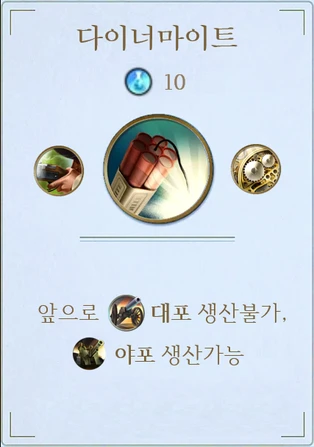
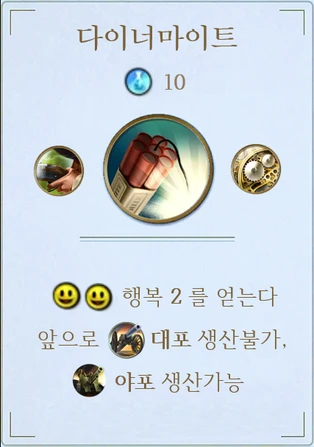
다이너마이트 행복+2, 해안 도시는 첫 5타일만, 군사 카드 종류당 4장(넘치면 골라 버림·경고), 투석병사·다이너마이트 카드 교체
Claude-Session: https://claude.ai/code/session_01RAyYJg3yqsP1EQBtC7udPM

Changed region(s): [[0.1146, 0.6107, 0.9172, 0.9016]]

diff --git a/src/engine/military.ts b/src/engine/military.ts
@@ -6,8 +6,11 @@ import { say } from './core'
 import { nextRandom } from './rng'
 import { dirsKey } from './cardstats'
 
-/** 한 종류의 군사 카드는 최대 6장까지 보유할 수 있다. 공용 덱의 카드는 사실상 무제한이라 재고는 세지 않는다. */
-export const MAX_HOLD = 6
+/**
+ * 한 종류의 군사 카드는 4장까지 보유한다. 더 만들 수는 있지만, 넘친 만큼은 직접 골라 버려야 한다 (discardCard).
+ * 공용 덱의 카드는 사실상 무제한이라 재고는 세지 않는다.
+ */
+export const MAX_HOLD = 4
 
 /**
  * 고유 유닛은 3장만 만들어져 있다: 방향 카드는 왼쪽·가운데·오른쪽 한 장씩, 방향이 없는 카드는 같은 카드 3장.
@@ -47,7 +50,8 @@ export function uniqueOf(p: Player, name: string): UniqueUnitDef | undefined {
   return civById(p.civId).uniques.find((u) => u.name === name)
 }
 
-const first5 = (city: City) => city.tiles.filter((t) => t.role === 'city' || t.role === 'side')
+/** 도시를 세울 때의 첫 5타일 (나중에 붙은 타일은 제외) */
+const first5 = (city: City) => city.tiles.filter((t) => (t.role === 'city' || t.role === 'side') && !t.late)
 export const isCoastalCity = (city: City): boolean => first5(city).some((t) => t.card.terrains.includes('해안'))
 
 /** 같은 계열의 더 높은 단계 기술을 얻으면 낮은 단계 카드는 더 만들 수 없다 ("앞으로 ○○ 생산불가") */
@@ -68,7 +72,6 @@ export function producible(s: GameState, p: Player, defId: string, unique?: stri
   if (!p.techs.includes(tech)) return null
   if (isObsolete(p, def)) return null
   if (city && def.requires && !city.tiles.some((t) => t.card.resource === def.requires)) return null
-  if (p.military.filter((c) => c.defId === id).length >= MAX_HOLD) return null
   if (uq && (s.uniqueSupply[uq.name]?.length ?? 0) === 0) return null // 고유 유닛 3장이 모두 존재함
   return { def, uq }
 }
@@ -89,8 +92,27 @@ function newCard(s: GameState, defId: string, unique?: string): CardInst {
 }
 
 /** 기술 효과 등으로 카드를 바로 받는다 (핵융합의 원자폭탄) */
+/** 보유 한도(MAX_HOLD)를 넘으면 버릴 카드를 골라야 한다: 넘친 종류를 기록한다 */
+function noteOverflow(p: Player, defId: string): void {
+  if (p.military.filter((c) => c.defId === defId).length > MAX_HOLD) (p.pendingCardDiscard ??= []).push(defId)
+}
+
+/** 넘친 군사 카드 1장을 골라 버린다 (고유 유닛이면 재고로 돌아간다) */
+export function discardCard(s: GameState, p: Player, uid: number): void {
+  const inst = p.military.find((c) => c.uid === uid)
+  if (!inst) throw new RuleError('내 카드가 아닙니다')
+  const at = p.pendingCardDiscard?.indexOf(inst.defId) ?? -1
+  if (at < 0) throw new RuleError('버려야 하는 종류의 카드를 고르세요')
+  p.military = p.military.filter((c) => c.uid !== uid)
+  releaseUnique(s, inst)
+  p.pendingCardDiscard!.splice(at, 1)
+  if (!p.pendingCardDiscard!.length) p.pendingCardDiscard = undefined
+  say(s, `${civById(p.civId).name} 넘친 ${cardById(inst.defId).name} 1장을 버림`)
+}
+
 export function grantCard(s: GameState, p: Player, defId: string): void {
   p.military.push(newCard(s, defId))
+  noteOverflow(p, defId)
   say(s, `${civById(p.civId).name} ${cardById(defId).name} 획득`)
 }
 
@@ -104,7 +126,7 @@ export function produceCard(
   const turn = p.turn!
   if (turn.produced.includes(a.cityId)) throw new RuleError('도시마다 한 차례에 생산은 1개만 할 수 있습니다')
   const ok = producible(s, p, a.defId, a.unique, city)
-  if (!ok) throw new RuleError('지금 만들 수 없는 카드입니다 (기술·자원·더 높은 단계 보유·보유 한도 확인)')
+  if (!ok) throw new RuleError('지금 만들 수 없는 카드입니다 (기술·자원·더 높은 단계 보유 확인)')
   const { def, uq } = ok
   if ((uq?.coastalOnly || def.special === 'coastalOnly') && !isCoastalCity(city)) {
     throw new RuleError('첫 5타일에 해안이 있는 도시에서만 만들 수 있습니다')
@@ -113,6 +135,7 @@ export function produceCard(
   const available = turn.yields.cities.find((c) => c.cityId === a.cityId)!.hammer
   if (available < cost) throw new RuleError('도시의 망치가 모자랍니다')
   p.military.push(newCard(s, def.id, a.unique))
+  noteOverflow(p, def.id)
   turn.produced.push(a.cityId)
   say(s, `${civById(p.civId).name} ${a.unique ?? def.name} 생산 (망치 ${cost})`)
 }
@@ -138,13 +161,13 @@ export function upgradeCard(s: GameState, p: Player, a: { uid: number; unique?: 
   const uq = a.unique ? uniqueOf(p, a.unique) : undefined
   if (a.unique && (!uq || uq.base !== upper.id)) throw new RuleError('그 고유 유닛으로 승급할 수 없습니다')
   if (!p.techs.includes(uq?.tech ?? upper.tech)) throw new RuleError('필요한 기술이 없습니다')
-  if (p.military.filter((c) => c.defId === upper.id).length >= MAX_HOLD) throw new RuleError('한 종류는 6장까지만 가질 수 있습니다')
   if (uq && (s.uniqueSupply[uq.name]?.length ?? 0) === 0) throw new RuleError('그 고유 유닛 3장이 모두 존재합니다')
   const cost = cardCost(p, upper, uq)
   if (turn.yields.gold < cost) throw new RuleError('금이 모자랍니다')
   p.military = p.military.filter((c) => c.uid !== a.uid)
   releaseUnique(s, inst) // 승급으로 바뀐 하위 고유 유닛은 재고로 돌아간다
   p.military.push(newCard(s, upper.id, a.unique))
+  noteOverflow(p, upper.id)
   turn.upgraded = true
   turn.yields.gold -= cost
   say(s, `${civById(p.civId).name} ${lower.name} → ${upper.name} 승급 (금 ${cost})`)
@@ -168,6 +191,7 @@ export function claimFreeCard(s: GameState, p: Player, a: { defId: string; uniqu
   const ok = producible(s, p, a.defId, a.unique)
   if (!ok) throw new RuleError('지금 받을 수 없는 카드입니다')
   p.military.push(newCard(s, ok.def.id, a.unique))
+  noteOverflow(p, ok.def.id)
   p.pendingFreeCards--
   say(s, `${civById(p.civId).name} 무료 군사 카드: ${a.unique ?? ok.def.name}`)
 }

diff --git a/src/engine/ai.ts b/src/engine/ai.ts
@@ -6,7 +6,7 @@ import type { TechDef } from './data'
 import { apply, researchableTechs } from './game'
 import { canHammerScience, ctxOf, culture, happiness, rationalismScience, tileYield, totalWorkers, tourism } from './yields'
 import { investableWonders, minHammers } from './wonders'
-import { cardCost, producible, uniqueOf, upgradeTargets } from './military'
+import { MAX_HOLD, cardCost, producible, uniqueOf, upgradeTargets } from './military'
 import { declarationTargets, occupiedTiles } from './war'
 import { currentPlayer, defaultTileCity } from './core'
 
@@ -422,7 +422,7 @@ function produceCandidates(s: GameState, p: Player): Action[] {
     const wonderActions: Action[] = wonders.map((w) => ({ type: 'invest', cityId: city.id, wonderId: w.id, hammers: h }))
     const cardActions: Action[] = []
     for (const o of cardOptions(p)) {
-      if (o.def.notBattle || !producible(s, p, o.def.id, o.unique, city) || cardCost(p, o.def, o.unique ? uniqueOf(p, o.unique) : undefined) > h) continue
+      if (o.def.notBattle || p.military.filter((c) => c.defId === o.def.id).length >= MAX_HOLD || !producible(s, p, o.def.id, o.unique, city) || cardCost(p, o.def, o.unique ? uniqueOf(p, o.unique) : undefined) > h) continue
       cardActions.push({ type: 'produce', cityId: city.id, defId: o.def.id, unique: o.unique })
     }
     // 군대가 3장 미만이거나 이웃의 군사에 비해 수비가 모자라면 군사 카드를 먼저, 그 뒤에는 불가사의에 망치를 모두 건다
@@ -434,7 +434,7 @@ function produceCandidates(s: GameState, p: Player): Action[] {
     for (const c of p.military) {
       for (const u of civById(p.civId).uniques) out.push({ type: 'upgrade', uid: c.uid, unique: u.name })
     }
-    for (const c of p.military) for (const t of upgradeTargets(p, c)) out.push({ type: 'upgrade', uid: c.uid, toDefId: t.id })
+    for (const c of p.military) for (const t of upgradeTargets(p, c).filter((x) => p.military.filter((m) => m.defId === x.id).length < MAX_HOLD)) out.push({ type: 'upgrade', uid: c.uid, toDefId: t.id })
   }
   // 4) 장군이 없고 군대가 있으면 점령 중인 장군 1개를 불러들여 다시 전쟁에 쓴다.
   //    다만 상대에게 중요한 타일(좋은 산출·자원·자연경관)을 점령 중이면 그대로 들고 있는다. 상대의 성장을 누르는 편이 낫다.
@@ -530,6 +530,12 @@ function battleCandidates(s: GameState): Action[] {
 export function aiCandidates(s: GameState): Action[] {
   if (s.phase === 'battle' && s.battle) return battleCandidates(s)
   const p = currentPlayer(s)
+  // 보유 한도를 넘은 카드는 같은 종류 중 가장 약한 카드(고유 유닛 아님·체력이 낮은 것)를 버린다
+  if (p.pendingCardDiscard?.length) {
+    const kind = p.pendingCardDiscard[0]
+    const cands = p.military.filter((c) => c.defId === kind).sort((x, y) => Number(!!x.unique) - Number(!!y.unique) || (cardStats(x).hp ?? 0) - (cardStats(y).hp ?? 0))
+    return cands.map((c) => ({ type: 'discardCard' as const, uid: c.uid }))
+  }
   // 문화로 얻은 타일은 먼저 붙인다 (예전 자동 배치와 같은 도시)
   if (p.pendingTiles?.length && s.phase !== 'setup' && s.phase !== 'over') return [{ type: 'placeGainedTile', cityId: defaultTileCity(p).id }]
   plan = p.cities.length ? lateGame(p, s) : null

diff --git a/src/engine/__tests__/stage3.test.ts b/src/engine/__tests__/stage3.test.ts
@@ -1,5 +1,5 @@
 import { describe, expect, it } from 'vitest'
-import { apply, cardById, culture, ctxOf, RuleError, MILITARY_CARDS, declarationTargets, freeWorkers, tileYield } from '..'
+import { apply, cardById, culture, ctxOf, RuleError, MILITARY_CARDS, declarationTargets, freeWorkers, tileYield, isCoastalCity, happiness } from '..'
 import type { GameState, TileCard } from '..'
 import { found, me, play, startGame, tile } from './helpers'
 
@@ -105,13 +105,39 @@ describe('군사 카드 생산', () => {
     expect(() => apply(s, { type: 'produce', cityId: 0, defId: 'archer' })).toThrow(RuleError)
   })
 
-  it('한 종류는 6장까지만 보유할 수 있다 (공용 덱은 사실상 무제한)', () => {
+  it('한 종류는 4장까지: 더 만들면 넘친 1장을 골라 버려야 하고, 그동안 다른 행동은 막힌다', () => {
     let s = mod(withHammers(at('denmark', ['agriculture']), 5), (c) => {
-      for (let i = 0; i < 6; i++) give(c, 0, 'warrior', 'L')
+      for (let i = 0; i < 4; i++) give(c, 0, 'warrior', 'L')
     })
-    expect(() => apply(s, { type: 'produce', cityId: 0, defId: 'warrior' })).toThrow(RuleError)
-    s = mod(s, (c) => c.players[0].military.pop())
-    expect(() => apply(s, { type: 'produce', cityId: 0, defId: 'warrior' })).not.toThrow()
+    s = apply(s, { type: 'produce', cityId: 0, defId: 'warrior' })
+    expect(s.players[0].military.filter((c) => c.defId === 'warrior')).toHaveLength(5)
+    expect(s.players[0].pendingCardDiscard).toEqual(['warrior'])
+    expect(() => apply(s, { type: 'endProduction' })).toThrow(RuleError)
+    expect(() => apply(s, { type: 'discardCard', uid: 99999 })).toThrow(RuleError)
+    const uid = s.players[0].military[0].uid
+    s = apply(s, { type: 'discardCard', uid })
+    expect(s.players[0].military.filter((c) => c.defId === 'warrior')).toHaveLength(4)
+    expect(s.players[0].pendingCardDiscard).toBeUndefined()
+    expect(() => apply(s, { type: 'endProduction' })).not.toThrow()
+  })
+
+  it('해안 타일을 나중에 얻어도 첫 5타일이 아니면 전함을 만들 수 없다', () => {
+    let s = mod(startGame(['denmark'], [inland()]), () => {})
+    s = found(s)
+    s = mod(s, (c) => {
+      const city = c.players[0].cities[0]
+      city.openSides = ['N']
+      c.players[0].techs.push('biology')
+      // 나중에 붙은 해안 타일 (빈 면에 들어가 role은 side지만 첫 5타일은 아니다)
+      city.tiles.push({ card: tile(['해안']), role: 'side', side: 'N', late: true })
+    })
+    expect(isCoastalCity(s.players[0].cities[0])).toBe(false)
+  })
+
+  it('다이너마이트: 행복 +2', () => {
+    const base = at('denmark', [])
+    const withTech = mod(base, (c) => c.players[0].techs.push('dynamite'))
+    expect(happiness(withTech.players[0]) - happiness(base.players[0])).toBe(2)
   })
 
   it('전함은 첫 5타일에 해안이 있는 도시에서만 만들 수 있다', () => {

diff --git a/src/ui/panels/ProducePanel.tsx b/src/ui/panels/ProducePanel.tsx
@@ -1,6 +1,6 @@
 import { CityTag } from '../icons'
 import { useState } from 'react'
-import { MILITARY_CARDS, cardById, cardCost, civById, declarationTargets, investableWonders, minHammers, uniqueOf, upgradeTargets, occupiedTiles } from '../../engine'
+import { MAX_HOLD, MILITARY_CARDS, cardById, cardCost, civById, declarationTargets, investableWonders, minHammers, uniqueOf, upgradeTargets, occupiedTiles } from '../../engine'
 import { UnitCard } from '../cards/UnitCard'
 import { catalogCard } from '../cards/unitImage'
 import { WonderCard } from '../cards/WonderCard'
@@ -146,21 +146,27 @@ export function ProducePanel({ game, player, dispatch }: PanelProps) {
                     const ok = rows.filter((r) => !r.block)
                     const no = rows.filter((r) => r.block)
                     // 카드 그림으로 보여 준다: 만들 수 있는 카드는 앞에, 만들 수 없는 카드는 이유와 함께 접어 둔다
-                    const card = (r: (typeof rows)[number]) => (
+                    const card = (r: (typeof rows)[number]) => {
+                      const full = player.military.filter((c) => c.defId === r.def.id).length >= MAX_HOLD
+                      return (
                       <div key={`${r.def.id}:${r.unique ?? ''}`} className={`policy-pick prod-card${r.block ? ' blocked' : ''}`}>
                         <UnitCard card={catalogCard(r.def.id, r.unique)} width={120} />
                         {r.unique && <small className="muted">고유 유닛 — 남은 {game.uniqueSupply[r.unique]?.length ?? 0}/3장</small>}
-                        <button
+                        {full && !r.block && <small className="warn">⚠ 이미 {MAX_HOLD}장 보유: 생산하면 1장을 골라 버립니다</small>}
+                        <ConfirmButton
+                          className=""
                           disabled={mustPolicy || !!r.block}
                           title={r.block ?? cardText({ defId: r.def.id, unique: r.unique })}
+                          warn={full ? `${r.unique ?? r.def.name}을(를) 이미 ${MAX_HOLD}장 가지고 있습니다. 만들면 1장을 골라 버려야 합니다` : null}
                           onClick={() => dispatch({ type: 'produce', cityId: city.id, defId: r.def.id, unique: r.unique })}
                         >
                           생산 {ICON.hammer}
                           {r.cost}
-                        </button>
+                        </ConfirmButton>
                         {r.block && <small className="muted">{r.block}</small>}
                       </div>
-                    )
+                      )
+                    }
                     return (
                       <>
                         <div className="unit-row">{ok.map(card)}</div>

diff --git a/src/engine/types.ts b/src/engine/types.ts
@@ -30,6 +30,8 @@ export interface PlacedTile {
   /** 'city' | 'side' (첫 5타일의 십자 위치) | 'extra' */
   role: 'city' | 'side' | 'extra'
   side?: Side
+  /** 도시를 세운 뒤에 붙은 타일 (첫 5타일에 속하지 않는다: 해안 도시 판정 등) */
+  late?: boolean
 }
 
 export interface City {
@@ -99,6 +101,8 @@ export interface Player {
   policy: PolicyId | null
   /** 행복 상한을 넘어 이번 차례 끝에 직접 버려야 하는 일꾼 수 (도시를 눌러 한 명씩 버린다) */
   pendingDiscard?: number
+  /** 보유 한도(한 종류 4장)를 넘어 골라 버려야 하는 군사 카드의 종류 (한 장마다 한 항목) */
+  pendingCardDiscard?: string[]
   /** 정책을 바꿀 기회로 얻은 선택권이면 고를 수 있는 정책 (이 정책이나 지금 정책) */
   policyOnly?: PolicyId[]
   /** 지금까지 정책을 고른 횟수 (불가사의·기술로 바뀐 것은 세지 않는다) */
@@ -243,6 +247,7 @@ export type Action =
   | { type: 'research'; techId: string; foodToScience?: number; hammerToScience?: number; foodByCity?: Record<number, number>; hammerByCity?: Record<number, number> }
   | { type: 'setChoices'; useHeld?: boolean; cultureCity?: number | null }
   | { type: 'discardWorker'; cityId: number }
+  | { type: 'discardCard'; uid: number }
   | { type: 'skipResearch' }
   | { type: 'endProduction' }
   | { type: 'choosePolicy'; policy: PolicyId; discard?: { cityId: number; count: number }[]; dismiss?: { cityId: number; tileId: number } }

diff --git a/src/ui/gameInfo.ts b/src/ui/gameInfo.ts
@@ -1,5 +1,5 @@
 import type { City, GameState, GameView, MilitaryCardDef, Player } from '../engine'
-import { MAX_HOLD, RESOURCES, TECHS, cardById, civById, cardCost, cardStats, findTile, isCoastalCity, isObsolete, producible, uniqueOf } from '../engine'
+import { RESOURCES, TECHS, cardById, civById, cardCost, cardStats, findTile, isCoastalCity, isObsolete, producible, uniqueOf } from '../engine'
 
 /** 선전포고 목표 타일의 지형 이름 (탈환은 공격 측의 원래 타일) */
 export function declTileName(game: GameState, d: GameState['declarations'][number]): string {
@@ -30,7 +30,6 @@ export function produceBlock(game: GameState, p: Player, def: MilitaryCardDef, u
   if (!p.techs.includes(tech)) return `기술 필요: ${TECHS.find((x) => x.id === tech)?.name ?? tech}`
   if (isObsolete(p, def)) return '상위 카드를 만들 수 있게 되어 더는 생산불가'
   if (def.requires && !city.tiles.some((t) => t.card.resource === def.requires)) return `이 도시에 ${RESOURCES[def.requires]?.name ?? def.requires} 타일이 없음`
-  if (p.military.filter((c) => c.defId === def.id).length >= MAX_HOLD) return `한 종류 ${MAX_HOLD}장 보유 한도`
   if (uq && (game.uniqueSupply[uq.name]?.length ?? 0) === 0) return '고유 유닛 3장이 모두 나가 있음'
   if ((uq?.coastalOnly || def.special === 'coastalOnly') && !isCoastalCity(city)) return '첫 5타일에 해안이 있는 도시에서만'
   if (!producible(game, p, def.id, unique, city)) return '지금 만들 수 없음'

diff --git a/src/engine/game.ts b/src/engine/game.ts
@@ -9,7 +9,7 @@ import { currentPlayer, defaultTileCity, drawTiles, flushPendingTiles, gainCultu
 import { choosePolicy } from './policies'
 import { invest, settleWonders } from './wonders'
 import {
-  anyProducible, claimFreeCard, gainGeneral, grantCard, initUniqueSupply, produceCard, sacrificeCard, upgradeCard,
+  anyProducible, claimFreeCard, discardCard, gainGeneral, grantCard, initUniqueSupply, produceCard, sacrificeCard, upgradeCard,
 } from './military'
 import { endScouting, freeWorkers, holdScouted, releaseHeld, scout } from './scouting'
 import {
@@ -204,6 +204,7 @@ export function apply(prev: GameState, action: Action): GameState {
   if (prev.phase === 'over') throw new RuleError('게임이 끝났습니다')
   const s = structuredClone(prev)
   const p = currentPlayer(s)
+  if (p.pendingCardDiscard?.length && action.type !== 'discardCard') throw new RuleError('넘친 군사 카드를 먼저 골라 버리세요')
   switch (action.type) {
     case 'wasteland': return wasteland(s, p, action.discardTileId)
     case 'buildCity': return buildCity(s, p, action)
@@ -306,6 +307,9 @@ export function apply(prev: GameState, action: Action): GameState {
       expectPhase(s, 'declare')
       if (p.pendingDiscard) throw new RuleError('버려야 하는 일꾼을 먼저 고르세요')
       settleAndEnd(s, p)
+      return s
+    case 'discardCard':
+      discardCard(s, p, action.uid)
       return s
     case 'discardWorker': {
       expectPhase(s, 'declare')

diff --git a/src/ui/panels/CardDiscardPanel.tsx b/src/ui/panels/CardDiscardPanel.tsx
@@ -1,0 +1,27 @@
+import { MAX_HOLD, cardById } from '../../engine'
+import { UnitCard } from '../cards/UnitCard'
+import type { PanelProps } from './types'
+
+/** 보유 한도(한 종류 4장)를 넘은 군사 카드: 버릴 카드를 눌러 고른다. */
+export function CardDiscardPanel({ player, dispatch }: PanelProps) {
+  const kind = player.pendingCardDiscard?.[0]
+  if (!kind) return null
+  const cards = player.military.filter((c) => c.defId === kind)
+  const left = player.pendingCardDiscard!.length
+  return (
+    <div className="panel">
+      <h3>
+        {cardById(kind).name} {cards.length}장 중 {left}장을 버려야 합니다
+      </h3>
+      <p className="muted">한 종류는 {MAX_HOLD}장까지 가질 수 있습니다. 버릴 카드를 눌러 고르세요 (고유 유닛을 버리면 다시 만들 수 있습니다).</p>
+      <div className="unit-row">
+        {cards.map((c) => (
+          <div key={c.uid} className="policy-pick prod-card">
+            <UnitCard card={c} width={120} />
+            <button onClick={() => dispatch({ type: 'discardCard', uid: c.uid })}>이 카드 버리기</button>
+          </div>
+        ))}
+      </div>
+    </div>
+  )
+}

diff --git a/src/ui/GameScreen.tsx b/src/ui/GameScreen.tsx
@@ -15,6 +15,7 @@ import { BattlePanel } from './panels/BattlePanel'
 import { DeclarePanel } from './panels/DeclarePanel'
 import { PendingPanel } from './panels/PendingPanel'
 import { ChoicesPanel } from './panels/ChoicesPanel'
+import { CardDiscardPanel } from './panels/CardDiscardPanel'
 import { DiscardPanel } from './panels/DiscardPanel'
 import { ConfirmButton } from './ConfirmButton'
 import { PlacePanel } from './panels/PlacePanel'
@@ -232,6 +233,8 @@ export function GameScreen({ initial, seats, onExit }: Props) {
   } else if (game.phase === 'declare') {
     main = player.pendingDiscard ? <DiscardPanel game={game} player={player} dispatch={dispatch} /> : <DeclarePanel game={game} player={player} dispatch={dispatch} />
   }
+
+  if (player.pendingCardDiscard?.length && game.phase !== 'battle' && game.phase !== 'over') main = <CardDiscardPanel game={game} player={player} dispatch={dispatch} />
 
   const placingTile = !!player.pendingTiles?.length && !actorSeat.ai
   const showBoard = !over && !curtain && !placingTile && game.phase !== 'setup' && game.phase !== 'place' && game.phase !== 'battle'

diff --git a/src/engine/war.ts b/src/engine/war.ts
@@ -3,7 +3,7 @@ import { RuleError, SIDES } from './types'
 import { cardById, civById } from './data'
 import { gainCulture, say } from './core'
 import { freeWorkers } from './scouting'
-import { releaseUnique } from './military'
+import { MAX_HOLD, releaseUnique } from './military'
 import { cardStats, isCoastalOnly } from './cardstats'
 import type { CardStats } from './cardstats'
 import { culture, tourism } from './yields'
@@ -407,7 +407,7 @@ function resolveBattle(s: GameState): void {
     for (const u of units[pid]) {
       if (!destroyed.has(u.inst.uid)) continue
       p.military = p.military.filter((c) => c.uid !== u.inst.uid)
-      if (enemy.civId === 'ottoman' && isCoastalOnly(u.inst)) enemy.military.push(u.inst)
+      if (enemy.civId === 'ottoman' && isCoastalOnly(u.inst) && enemy.military.filter((c) => c.defId === u.inst.defId).length < MAX_HOLD) enemy.military.push(u.inst)
       else releaseUnique(s, u.inst) // 파괴된 고유 유닛은 3장 재고로 돌아간다
     }
   }

diff --git a/src/online/OnlineGameScreen.tsx b/src/online/OnlineGameScreen.tsx
@@ -15,6 +15,7 @@ import { usePrefs } from '../ui/prefsStore'
 import { BattlePanel } from '../ui/panels/BattlePanel'
 import { ChoicesPanel } from '../ui/panels/ChoicesPanel'
 import { DeclarePanel } from '../ui/panels/DeclarePanel'
+import { CardDiscardPanel } from '../ui/panels/CardDiscardPanel'
 import { DiscardPanel } from '../ui/panels/DiscardPanel'
 import { ConfirmButton } from '../ui/ConfirmButton'
 import { PendingPanel } from '../ui/panels/PendingPanel'
@@ -178,6 +179,8 @@ export function OnlineGameScreen({ online, onExit }: Props) {
   }
 
   const yields = me.turn?.yields
+  if (me.pendingCardDiscard?.length && game.phase !== 'battle' && game.phase !== 'over') main = <CardDiscardPanel game={game} player={me} dispatch={dispatch} />
+
   const placingTile = !!me.pendingTiles?.length
   const showBoard = !over && mine && !placingTile && game.phase !== 'setup' && game.phase !== 'place' && game.phase !== 'battle'
   const inTurn = mine && !over && turnKey(game) !== null

diff --git a/src/ui/format.ts b/src/ui/format.ts
@@ -92,6 +92,7 @@ function techEffectLine(e: TechDef['effects'][number]): string | null {
     case 'tourismPerCulture': return `매 턴, 자신의 문화 ${e.per}당 1의 관광 점수를 얻는다`
     case 'scienceVictory': return '이 기술을 가장 먼저 획득하였다면 이 게임에서 승리한다'
     case 'compass': return '1개의 타일까지만, 정찰한 타일카드에 일꾼 토큰을 1개 계속 배치하며 기억할 수 있다. 새 타일 획득 시 드로우 대신 해당 카드를 가져올 수 있다'
+    case 'happiness': return `행복 ${e.amount}를 얻는다`
     case 'sciencePerTurn': return `자신의 차례에 산출량+${e.amount}`
     case 'policyChance': return `이 기술을 얻으면 얻은 시점에 원한다면 정책을 '${POLICIES[e.policy].name}'로 변경할 수 있다`
     default: return null // foodToScience, hammerToScience, ignoreRoundPicks 는 TECH_EXTRA가 설명
